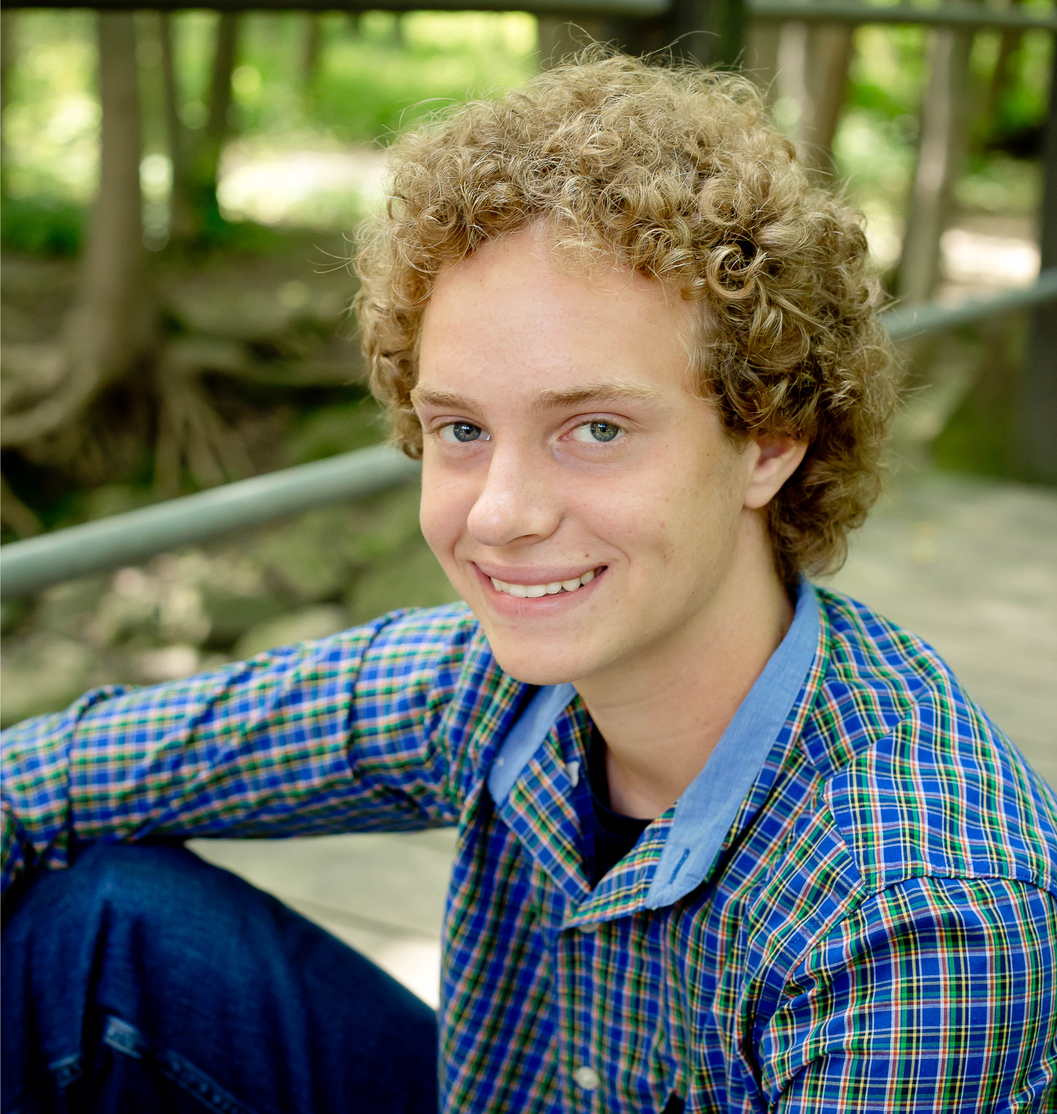
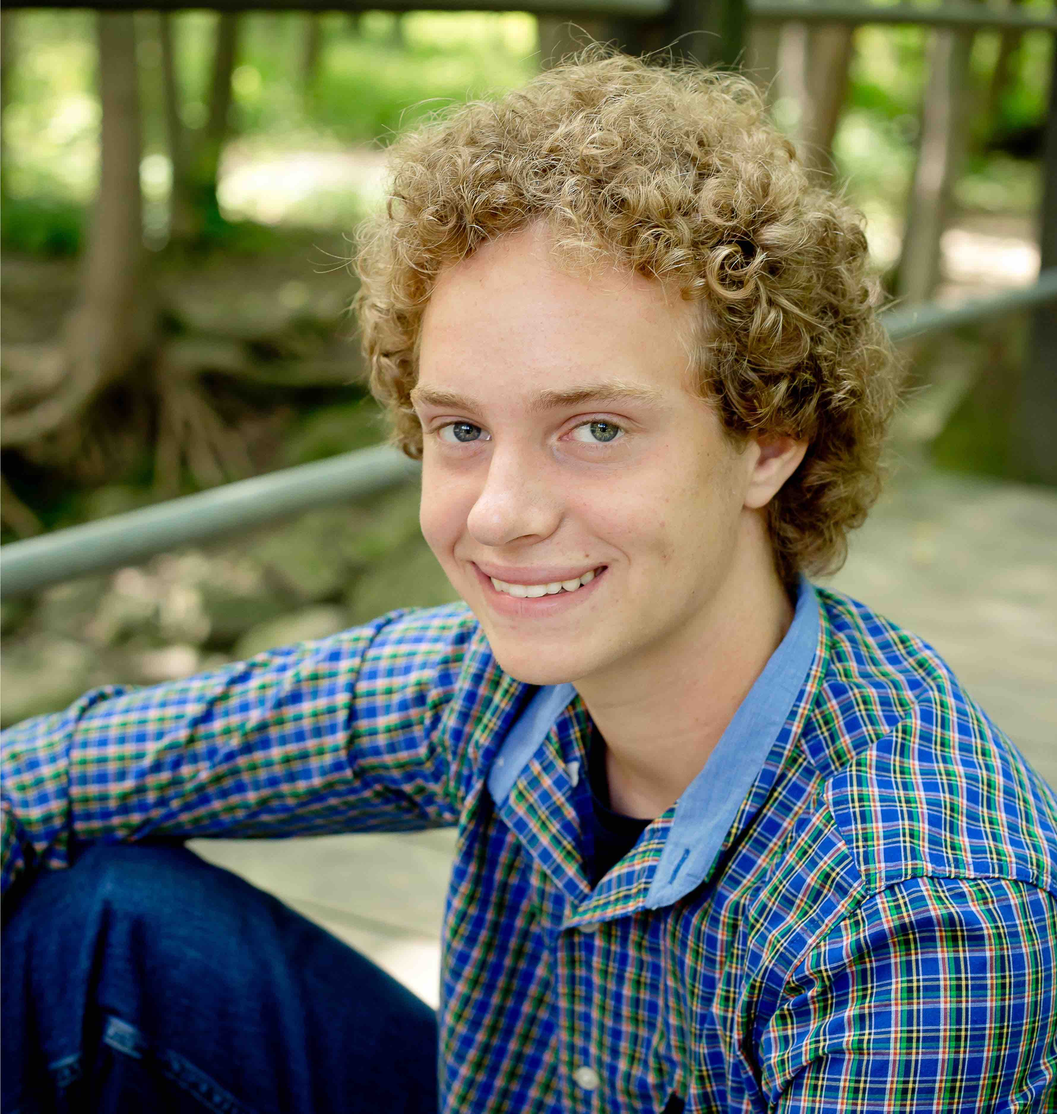
exec pics added and compressed

diff --git a/Exec_bios.html b/Exec_bios.html
@@ -49,13 +49,13 @@
     <center>
       <a name="bio1"><img src="filler.jpg" height="300" width="300"><br>
       <p>Thomas is a Sophomore here at UW Madison and this is his second year in TEDx and his second year as Speaker Liaison. Outside of school and TEDx, Thomas fights for the Taekwondo team, is involved with the Economic Student Association and Investment Banking club. With his free time, Thomas enjoys working out and reading historical novels because he is an uber nerd.</p><br></a>
-      <a name="bio2"><img src="Sofi.png" height="300" width="300"><br>
+      <a name="bio2"><img src="Sofi.jpg" height="300" width="300"><br>
       <p>Sofi got involved with TEDxUWMadison at the start of freshman year and is even more passionate about it now. She loves creating fantastic events for her campus and showcasing all the amazing individuals at the university. Sofi is also incredibly passionate about audio storytelling and wants to be an audio journalist some day. She specifically wants to intern at the NPR TED Radio Hour podcast too. She loves bagels, twitter and podcasts more than life itself and is always down to talk politics and feminism.</p><br></a>
       <a name="bio3"><img src="filler.jpg" height="300" width="300"><br>
       <p>Nihal enjoys watching Ted talks on the Ted talk app on his phone in his free time. He joined TedX and executive board because he thinks Ted talks are awesome and wanted to get more involved in planning UW's very own TedX event. He seeks to become a doctor in the future and enjoys listening to music, hanging out with friends, watching Netflix, and watching Ted talks in his free time.</p><br></a>
-      <a name="bio4"><img src="Lindsay.png" height="300" width="300"><br>
+      <a name="bio4"><img src="Lindsay.jpg" height="300" width="300"><br>
       <p>Lindsay joined TEDxUWMadison as a freshman, and has been a member of the executive board since her sophomore year. She was fortunate enough to attend TED Talks Live: Education Revolution in New York City fall of 2015 with Curator and President, Sofi LaLonde. Lindsay loves the global aspect of TED, and as an avid traveller herself, is always intrigued by the advances and adventures people are having around the world.</p><br></a>
-      <a name="bio5"><img src="mitchell.jpg" height="300" width="300"><br>
+      <a name="bio5"><img src="Mitchell.jpg" height="300" width="300"><br>
       <p>Mitchell first learned about TEDxUWMadison at the student org fair freshman year and has been in love ever since. His favorite TED Talk is "Why city flags may be the worst-designed thing you've never noticed" by Roman Mars. Mitchell enjoys being outside and is very active year round. During the winter he enjoys cross country and downhill skiing. Mitchell is also a member of Euchre club. His career goal is to be an Epidemiologist.</p><br></a>
       <a name="bio6"><img src="filler.jpg" height="300" width="300"><br>
       <p>Nick joined Tedx as a Sophomore looking to get involved in a group where he could provide a substantial impact as a general member. As an avid listener of Ted talks, Tedx was a perfect fit! When not controlling the finance activities for Tedx, you will probably find Nick watching or playing sports, more specifically, the Packers and Bucks.</p><br></a>

diff --git a/About.html b/About.html
@@ -61,14 +61,14 @@
     <a href="Exec_bios.html#bio1">
       <li class="execMember"><img src="filler.jpg"onmouseover="this.src='filler_hover.jpg';"
                 onmouseout="this.src='filler.jpg';"></li></a>
-     <a href="Exec_bios.html#bio2"> <li class="execMember"><img src="Sofi.png" onmouseover="this.src='Sofi.png';"
-                onmouseout="this.src='Sofi.png';"></li></a>
+     <a href="Exec_bios.html#bio2"> <li class="execMember"><img src="Sofi.jpg" onmouseover="this.src='Sofi.jpg';"
+                onmouseout="this.src='Sofi.jpg';"></li></a>
      <a href="Exec_bios.html#bio3"> <li class="execMember"><img src="filler.jpg"onmouseover="this.src='filler.jpg';"
                 onmouseout="this.src='filler.jpg';"></li></a>
-     <a href="Exec_bios.html#bio4"> <li class="execMember"><img src="Lindsay.png"onmouseover="this.src='Lindsay.png';"
-                onmouseout="this.src='Lindsay.png';"></li></a>
-     <a href="Exec_bios.html#bio5"> <li class="execMember"><img src="mitchell.jpg"onmouseover="this.src='mitchell_hover.jpg';"
-                onmouseout="this.src='mitchell.jpg';"></li></a>
+     <a href="Exec_bios.html#bio4"> <li class="execMember"><img src="Lindsay.jpg"onmouseover="this.src='Lindsay.jpg';"
+                onmouseout="this.src='Lindsay.jpg';"></li></a>
+     <a href="Exec_bios.html#bio5"> <li class="execMember"><img src="Mitchell.jpg"onmouseover="this.src='Mitchell_hover.jpg';"
+                onmouseout="this.src='Mitchell.jpg';"></li></a>
      <a href="Exec_bios.html#bio6"><li class="execMember"><img src="filler.jpg"onmouseover="this.src='filler_hover.jpg';"
                 onmouseout="this.src='filler.jpg';"></li></a>
   </ul>
